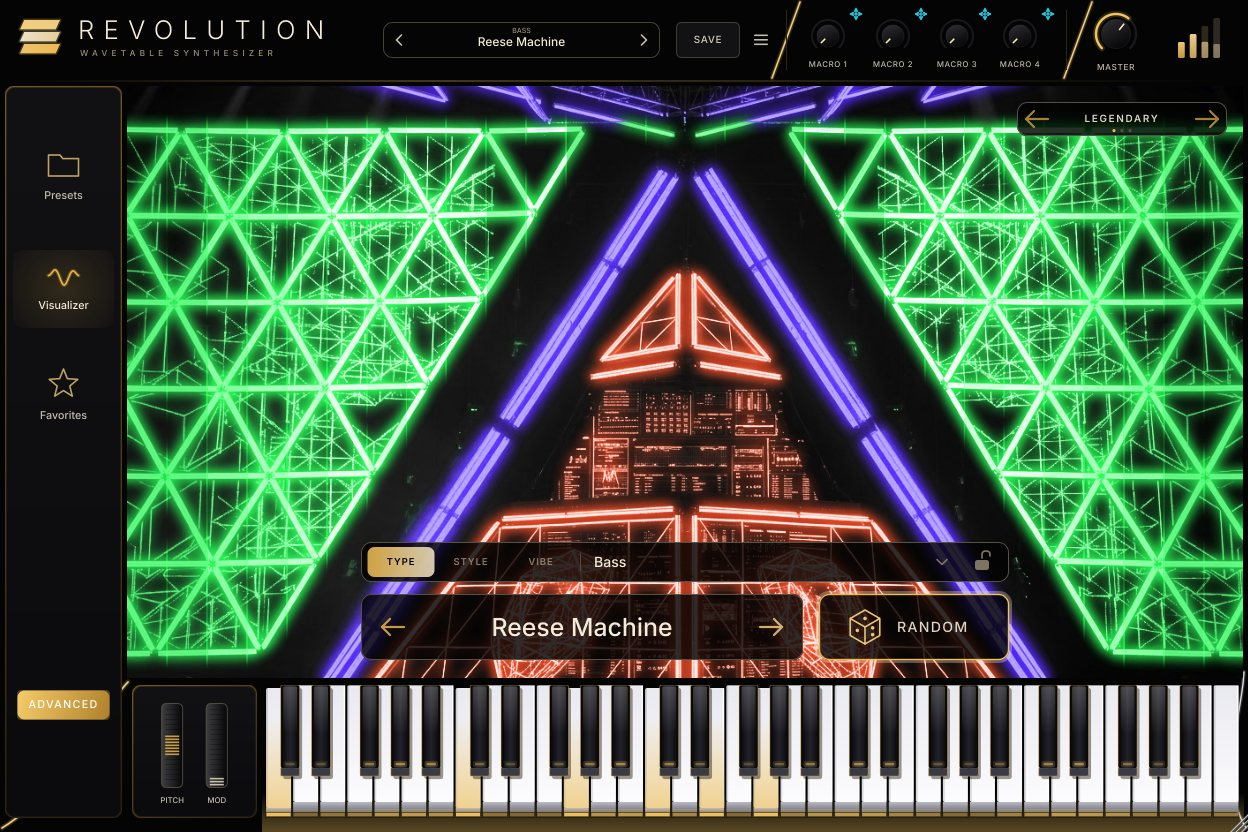
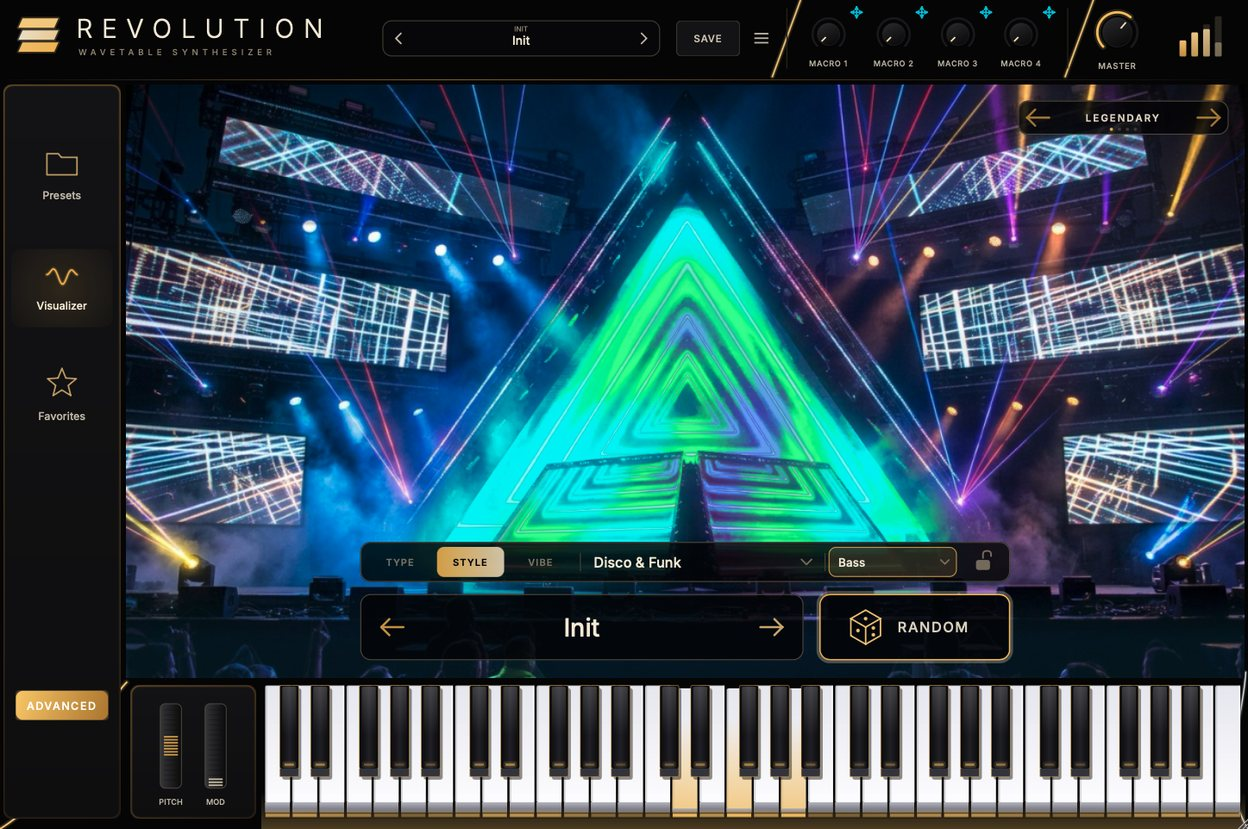
Revolution: new Legendary scene screenshot
Claude-Session: https://claude.ai/code/session_01WwjQvk822aiDCxj48dmMkg

diff --git a/revolution.html b/revolution.html
@@ -90,7 +90,7 @@
     </div>
     <p class="meta">14-day free trial · VST3 · AU · LV2 · Standalone · Mac, Windows, Linux</p>
   </div>
-  <div class="wrap"><div class="shot"><img src="img/revolution/scene-legendary.jpg" alt="Revolution in Normal mode with The Touch skin: the Legendary scene, a stage of LED tubes and triangles around a pyramid" width="1248" height="832" fetchpriority="high"></div></div>
+  <div class="wrap"><div class="shot"><img src="img/revolution/scene-legendary.jpg" alt="Revolution in Normal mode with The Touch skin: the Legendary scene, a festival stage of lasers and LED screens around a glowing pyramid" width="1248" height="829" fetchpriority="high"></div></div>
 </section>
 
 <div class="subnav"><div class="wrap">
@@ -206,7 +206,7 @@
     <h2 class="h2" style="margin:16px 0 12px">The Touch: four stages instead of a visualizer</h2>
     <p class="lead" style="margin-bottom:40px;max-width:48em">Choose The Touch skin and Revolution turns black and gold. In Normal mode the visualizers make way for four hand-made scenes that play along with you.</p>
     <div class="scenes">
-      <figure><img src="img/revolution/scene-legendary.jpg" alt="Legendary scene: LED tubes and triangle walls around a pyramid" width="1248" height="832" loading="lazy"><figcaption><b>Legendary</b><span>A stage of LED tubes around a pyramid. New colours light up on every fifth note and on each new chord.</span></figcaption></figure>
+      <figure><img src="img/revolution/scene-legendary.jpg" alt="Legendary scene: lasers and LED screens around a glowing pyramid" width="1248" height="829" loading="lazy"><figcaption><b>Legendary</b><span>A festival stage of lasers and LED screens around a glowing pyramid. New colours light up on every fifth note and on each new chord.</span></figcaption></figure>
       <figure><img src="img/revolution/touch-duo.jpg" alt="Duo scene: a white T-shirt with a skull, light rays behind it" width="1248" height="829" loading="lazy"><figcaption><b>Duo</b><span>A white T-shirt in the dark. Figures play on it at rest, and what you hold is printed on the shirt.</span></figcaption></figure>
       <figure><img src="img/revolution/touch-city-lights.jpg" alt="City Lights scene: a red convertible drives towards a synthwave sunset" width="1248" height="829" loading="lazy"><figcaption><b>City Lights</b><span>A red convertible heads into a synthwave sunset over the grid, and speeds up as your music gets louder.</span></figcaption></figure>
       <figure><img src="img/revolution/touch-awakening.jpg" alt="Awakening scene: a glowing glass figure waving" width="1248" height="829" loading="lazy"><figcaption><b>Awakening</b><span>A figure of glass and light that comes to life as you play.</span></figcaption></figure>

diff --git a/index.html b/index.html
@@ -57,7 +57,7 @@
       <p class="meta">14-day free trial · VST3 · AU · LV2 · Standalone · Mac, Windows, Linux</p>
     </div>
     <div class="pics">
-      <img class="ui" id="hero-shot" src="img/revolution/scene-legendary.jpg" alt="Revolution in Normal mode, The Touch skin, Legendary scene" width="1248" height="832" fetchpriority="high">
+      <img class="ui" id="hero-shot" src="img/revolution/scene-legendary.jpg" alt="Revolution in Normal mode, The Touch skin, Legendary scene" width="1248" height="829" fetchpriority="high">
       <div class="choices" data-switch="hero-shot" aria-label="Revolution looks">
         <span class="meta" style="margin-right:4px">Look</span>
         <button class="choice" type="button" aria-pressed="true" data-src="img/revolution/scene-legendary.jpg" data-alt="Revolution in Normal mode, The Touch skin, Legendary scene"><span class="dot" style="background:#e9b54a"></span>Legendary</button>

diff --git a/plugins.html b/plugins.html
@@ -54,7 +54,7 @@
     <div class="results">
       <p style="color:var(--muted)" aria-live="polite"><b style="color:var(--ink)" id="count">0</b> plug-ins</p>
       <a class="card feat-card" href="revolution.html" id="feat">
-        <div class="pic"><img src="img/revolution/scene-legendary.jpg" alt="Revolution in Normal mode, Legendary scene" width="1248" height="832"></div>
+        <div class="pic"><img src="img/revolution/scene-legendary.jpg" alt="Revolution in Normal mode, Legendary scene" width="1248" height="829"></div>
         <div class="body">
           <div class="choices"><span class="pill dark">Featured</span><span class="pill soon">Coming soon</span></div>
           <span class="type kicker">Instrument · Wavetable synth</span>
